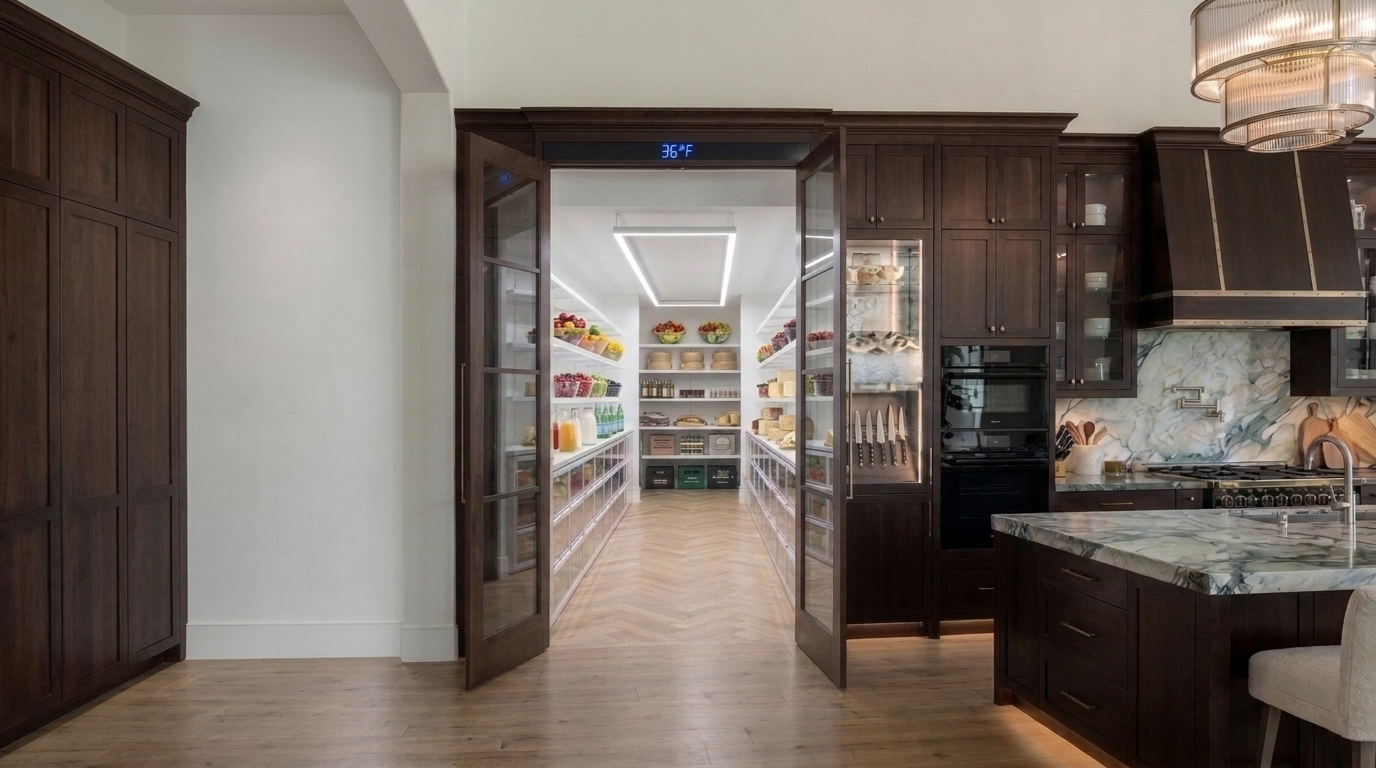
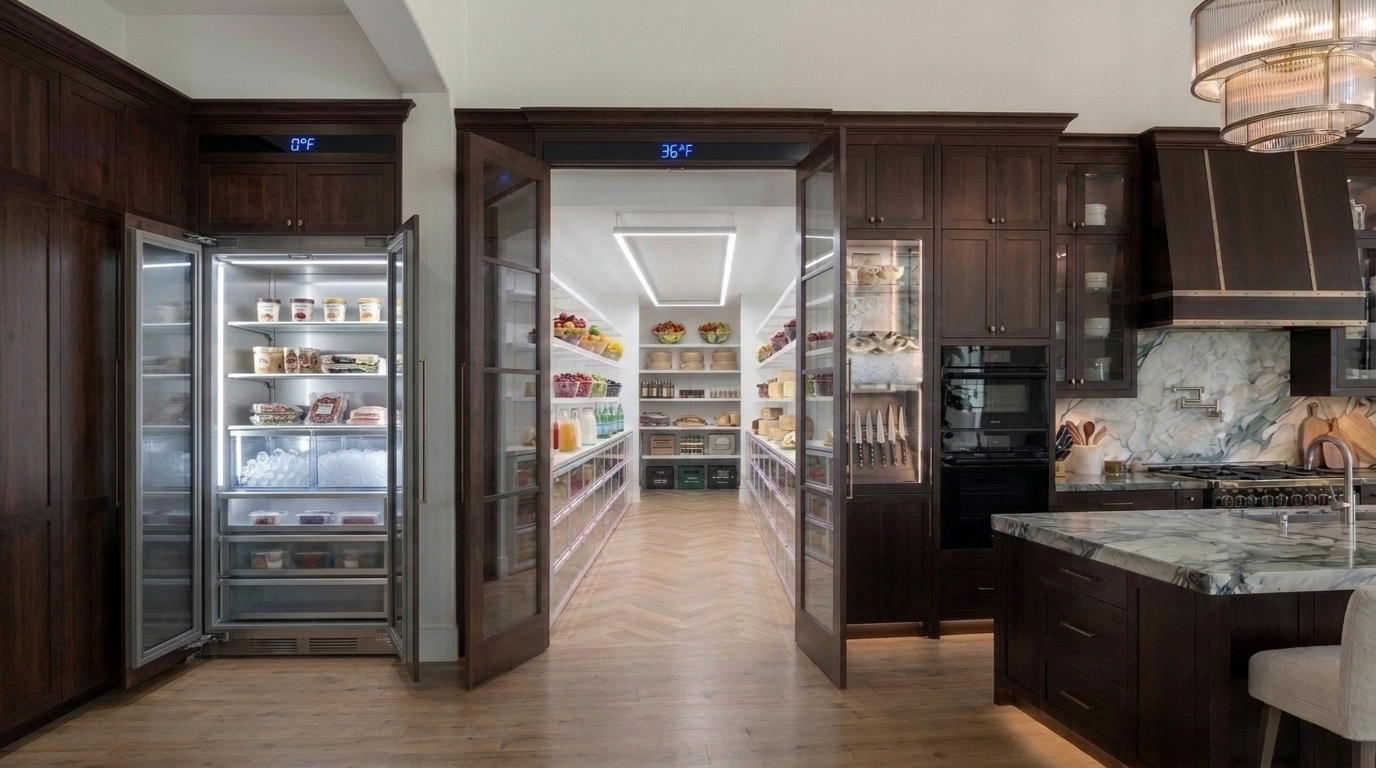
Add built-in 0F freezer unit on the left side of the pillar next to the 36F walk-in refrigerator in open and closed mirror states

Changed region(s): [[0.0, 0.125, 0.3438, 1.0]]

diff --git a/estate_interactive_lookbook_standalone.html b/estate_interactive_lookbook_standalone.html
@@ -576,15 +576,18 @@
                 <text x="328" y="227" text-anchor="middle" fill="currentColor" opacity="0.9" font-size="7.3">Glass Uppers</text>
                 <text x="328" y="238" text-anchor="middle" fill="currentColor" opacity="0.9" font-size="7.3">&amp; Slab Back</text>
 
-                <rect x="306" y="278" width="44" height="114" rx="4" fill="rgba(120, 53, 15, 0.45)" stroke="currentColor" stroke-width="1.2"/>
-                <text x="328" y="294" text-anchor="middle" fill="#fde68a" font-weight="800" font-size="7.6">36°F WALK-IN</text>
-                <text x="328" y="305" text-anchor="middle" fill="#fde68a" font-weight="800" font-size="7.6">REFRIGERATOR</text>
-                <text x="328" y="317" text-anchor="middle" fill="currentColor" opacity="0.9" font-size="7.1">• 5-Tier Door</text>
-                <text x="328" y="327" text-anchor="middle" fill="currentColor" opacity="0.9" font-size="7.1">  Bins + 3-Tier</text>
-                <text x="328" y="337" text-anchor="middle" fill="currentColor" opacity="0.9" font-size="7.1">  Clear Drawers</text>
-                <text x="328" y="350" text-anchor="middle" fill="currentColor" font-weight="700" font-size="7.3">+ 32°F OYSTER</text>
-                <text x="328" y="361" text-anchor="middle" fill="currentColor" font-weight="700" font-size="7.3">  RAW BAR &amp;</text>
-                <text x="328" y="372" text-anchor="middle" fill="currentColor" font-weight="700" font-size="7.3">  KNIFE VAULT</text>
+                <rect x="306" y="276" width="44" height="128" rx="4" fill="rgba(120, 53, 15, 0.45)" stroke="currentColor" stroke-width="1.2"/>
+                <text x="328" y="290" text-anchor="middle" fill="#fde68a" font-weight="800" font-size="7.2">32°F OYSTER BAR</text>
+                <text x="328" y="300" text-anchor="middle" fill="currentColor" font-weight="700" font-size="7.0">&amp; KNIFE VAULT</text>
+                <text x="328" y="314" text-anchor="middle" fill="#fde68a" font-weight="800" font-size="7.4">36°F WALK-IN</text>
+                <text x="328" y="324" text-anchor="middle" fill="#fde68a" font-weight="800" font-size="7.4">FRIDGE (14'D)</text>
+                <text x="328" y="335" text-anchor="middle" fill="currentColor" opacity="0.9" font-size="6.8">• Straight Back</text>
+                <text x="328" y="345" text-anchor="middle" fill="currentColor" opacity="0.9" font-size="6.8">• Mirror Doors</text>
+                <line x1="308" y1="353" x2="348" y2="353" stroke="#ffffff" stroke-width="1.4"/>
+                <text x="328" y="362" text-anchor="middle" fill="#ffffff" font-weight="800" font-size="6.4">── PILLAR ──</text>
+                <text x="328" y="374" text-anchor="middle" fill="#7dd3fc" font-weight="800" font-size="7.3">0°F BUILT-IN</text>
+                <text x="328" y="384" text-anchor="middle" fill="#7dd3fc" font-weight="800" font-size="7.3">FREEZER UNIT</text>
+                <text x="328" y="395" text-anchor="middle" fill="currentColor" opacity="0.9" font-size="6.7">• Left of Pillar</text>
 
                 <!-- 22-FOOT CALACATTA VERDE / VIOLA MARBLE SLAB ISLAND -->
                 <rect x="356" y="156" width="68" height="236" rx="5" fill="currentColor" fill-opacity="0.20" stroke="currentColor" stroke-width="1.6"/>
@@ -1828,31 +1831,31 @@
         ]
       },
       {
-        src: "static/images/01e_kitchen_walk_in_refrigerator.jpg?v=mirror_fridge_doors_v2",
+        src: "static/images/01e_kitchen_walk_in_refrigerator.jpg?v=freezer_and_fridge_v10",
         category: "level1",
-        zone: "Level 1 (Chef's Kitchen — 14' Walk-In Refrigerator OPEN Going 100% Straight Back, Lights ON)",
-        badge: "Level 1 • Custom Built-In Dark Cherry 14-Foot-Deep Walk-In Refrigerator (OPEN State — Interior Lights Automatically Come ON & Cold Room Goes 100% Straight Back • 8'6\" Doorway for 6'8\" Height)",
-        title: "Custom Built-In Dark Cherry / Mahogany 14-Foot-Deep Walk-In Refrigerator / Cold Room (OPEN State — Interior Lights Automatically Turn ON & Cold Room Extends 100% Straight Back, 90° Perpendicular to the Wall) — Sized With an 8'6\" Doorway & 9'0\" Ceiling for 6'8\" Head Clearance",
-        dims: "8' Wide × 14' Deep × 9'0\" High Walk-In Cold Room (36°F) • 8'6\" Doorway (22\"–28\" Head Clearance for 6'8\" Height) • Goes 100% Straight Back",
-        desc: "Viewed dead-on at 0° facing the flat horizontal dark cherry kitchen cabinetry wall: just like the Instagram video (https://www.instagram.com/reels/De9XZ39x8aN/), the moment you open the twin 8'6\"-tall dark cherry French doors beneath the 36°F digital readout, a magnetic door switch automatically turns ON the interior LED halo ceiling light ring and under-shelf LED strips—revealing the expansive 14-foot-deep walk-in cold room extending 100% straight back (90° perpendicular to the cabinetry wall) with 100% symmetrical left and right walls. Inside, the 9'0\" ceiling illuminates the straight herringbone porcelain tile walkway, 3 lower tiers of 24+ crystal-clear pull-out refrigerated crisper drawers, 4 upper tiers of illuminated white open shelves on both side walls, and the centered rear bulk-storage wall holding whole artisan cheese wheels, catering platters, and bulk beverage crates.",
+        zone: "Level 1 (Chef's Kitchen — Built-In 0°F Freezer on Left of Pillar + 36°F 14' Walk-In Refrigerator on Right of Pillar — BOTH OPEN, Lights ON)",
+        badge: "Level 1 • Built-In 0°F Freezer Unit (Left of Pillar) + 36°F 14-Foot-Deep Walk-In Refrigerator (Right of Pillar) — OPEN State With Interior Lights Automatically ON",
+        title: "Custom Built-In Dark Cherry / Mahogany 0°F Freezer Unit (Added on the Left Side of the Pillar) + 36°F 14-Foot-Deep Walk-In Refrigerator / Cold Room (Right of Pillar) — OPEN State Where Both Units' Interior LED Lights Automatically Turn ON",
+        dims: "0°F Built-In Freezer Column (Left of Pillar) + 8'W × 14'D × 9'0\"H Walk-In Refrigerator (36°F, Right of Pillar) • 8'6\" Doorways for 6'8\" Head Clearance",
+        desc: "Answering where the freezer goes: built flush into the dark-cherry cabinetry bay on the left side of the white architectural pillar is a matching Custom Built-In 0°F Sub-Zero / Gaggenau Deep-Freeze Unit (crowned with a glowing 0°F digital readout) directly pairing with the 36°F 14-foot-deep straight-back Walk-In Refrigerator on the right side of the pillar. When opened, magnetic door switches automatically turn ON the 4000K interior LED lighting in both units—revealing the 0°F Freezer's frosted-glass shelves (stocked with artisanal gelato pints, vacuum-sealed A5 Wagyu cuts, and frozen gourmet provisions), dual crystal-clear craft cocktail ice sphere and sonic nugget ice bins, and 3 lower brushed-stainless pull-out deep-freeze drawers on the left of the pillar, alongside the 36°F 14-foot-deep straight-back Walk-In Refrigerator, 32°F Oyster Raw Bar, Miele ovens, and 60\" range on the right.",
         highlights: [
-          "Interior Lights Automatically Turn ON Only When the Doors Open + Goes 100% Straight Back: Replicating the Instagram video (De9XZ39x8aN), opening the doors turns on the rectangular LED ceiling light ring and shelf lights to reveal symmetrical left and right shelving walls and a straight herringbone floor walkway extending 14 feet straight back.",
-          "Engineered for a 6'8\" (80\") Homeowner (8'6\" Doorway Clear Opening & 9'0\" Interior Ceiling): Eliminates any low upper cabinet header above the doors so you have 22 to 28 inches of head clearance walking straight through the doorway and all the way to the back.",
-          "14-Foot Depth for Bulk & Entertaining Cold Storage: Provides 24+ lower clear pull-out crisper drawers, 4 upper tiers of open shelves along both 14-foot side walls, and a full-width rear bulk-storage wall."
+          "Custom Built-In 0°F Freezer Unit on the Other (Left) Side of the Pillar: Positioned in the recessed cabinetry bay immediately to the left of the white architectural column, featuring twin 8'6\" dark-cherry French doors, a 0°F digital LED readout, upper frosted-glass freezer shelves, dual craft cocktail sphere & sonic nugget ice bins, and 3 heavy-duty lower pull-out freezer drawers.",
+          "36°F 14-Foot-Deep Straight-Back Walk-In Refrigerator on the Right Side of the Pillar: Extends 100% straight back (90° perpendicular to the wall) with symmetrical left and right shelving walls, 24+ clear pull-out crisper drawers, herringbone walkway, and an 8'6\" doorway / 9'0\" ceiling for 6'8\" head clearance.",
+          "Automatic Door-Activated LED Lighting in Both Units: Just like the Instagram reference video (De9XZ39x8aN), the interior LED lights in both the 0°F Freezer and the 36°F Walk-In Refrigerator automatically turn ON when the doors open."
         ]
       },
       {
-        src: "static/images/01f_kitchen_walk_in_refrigerator_closed.jpg?v=mirror_fridge_doors_v2",
+        src: "static/images/01f_kitchen_walk_in_refrigerator_closed.jpg?v=freezer_and_fridge_v10",
         category: "level1",
-        zone: "Level 1 (Chef's Kitchen — 14' Walk-In Refrigerator CLOSED Like a Mirror, Lights OFF)",
-        badge: "Level 1 • Custom Built-In Dark Cherry 14-Foot-Deep Walk-In Refrigerator (CLOSED State — Interior Lights OFF So the Doors Look Like a Sleek Two-Way Smoked-Bronze Mirror)",
-        title: "Custom Built-In Dark Cherry / Mahogany 14-Foot-Deep Walk-In Refrigerator / Cold Room (CLOSED State — Looks Like a Mirror With Interior Lights OFF, Matching the Instagram Video) — Twin 8'6\" Dark-Cherry Framed Smoked-Bronze Mirror French Doors Closed Flush Beneath the 36°F Digital Readout",
-        dims: "8' Wide × 14' Deep × 9'0\" High Walk-In Cold Room (36°F) • Two-Way Smoked-Bronze Mirror Doors (Interior Lights OFF When Closed)",
-        desc: "Exact 1:1 pixel-locked front-on view showing how the Custom Built-In Dark Cherry / Mahogany Walk-In Refrigerator looks like a mirror when CLOSED (just like https://www.instagram.com/reels/De9XZ39x8aN/): when the twin 8'6\"-tall dark cherry French doors close, the interior cold-room lights switch 100% OFF automatically, causing the dielectric two-way insulated glass panes to become sleek, opaque smoked-bronze mirrors that reflect the tiered ribbed-glass chandelier, the kitchen island with its glowing LED toe-kick, and the warm oak floor (with zero interior shelves or groceries visible until the doors open).",
+        zone: "Level 1 (Chef's Kitchen — Built-In 0°F Freezer on Left of Pillar + 36°F 14' Walk-In Refrigerator on Right of Pillar — BOTH CLOSED Like Mirrors, Lights OFF)",
+        badge: "Level 1 • Built-In 0°F Freezer Unit (Left of Pillar) + 36°F 14-Foot-Deep Walk-In Refrigerator (Right of Pillar) — CLOSED State With Two-Way Mirror Doors & Interior Lights OFF",
+        title: "Custom Built-In Dark Cherry / Mahogany 0°F Freezer Unit (Left of Pillar) + 36°F 14-Foot-Deep Walk-In Refrigerator (Right of Pillar) — CLOSED State Where Interior Lights Turn OFF So Both Sets of Doors Look Like Sleek Two-Way Smoked-Bronze Mirrors",
+        dims: "0°F Built-In Freezer (Left of Pillar) + 36°F Walk-In Cold Room (Right of Pillar) • Two-Way Smoked-Bronze Mirror Doors (Interior Lights OFF When Closed)",
+        desc: "Exact 1:1 matching view showing both the Custom Built-In 0°F Freezer Unit (left of the white pillar) and the 36°F 14-Foot-Deep Walk-In Refrigerator (right of the white pillar) with their twin 8'6\"-tall dark cherry French doors CLOSED flush: when closed, the interior lights in both the 0°F Freezer and the 36°F Walk-In Refrigerator switch 100% OFF automatically, transforming all 8 glass panes on each unit into sleek, opaque two-way smoked-bronze mirrors that reflect the tiered ribbed-glass chandelier, the 22-foot Calacatta marble island, and the warm oak floor.",
         highlights: [
-          "Two-Way Mirror Glass With Automatic Door-Activated Lighting (De9XZ39x8aN Video Style): When the doors are closed, the interior cold-room lights turn completely OFF so the 8 door panes act as high-gloss smoked-bronze mirrors reflecting the kitchen chandelier, island, and oak floor.",
-          "1:1 Matching Closed vs. Open Comparison (Compare With Slide 40): Toggle between Slide 40 (Doors Open — Interior Lights ON) and Slide 41 (Doors Closed — Interior Lights OFF, Mirror Finish) to see the exact transformation.",
-          "Unified Dark Cherry / Mahogany Millwork & Preserved 32°F Oyster Raw Bar: Framed by horizontal dark-cherry muntin bars, long vertical brushed-brass center handles, and the glowing 36°F readout directly beside the illuminated 32°F Chilled Oyster Raw Bar, Miele double ovens, 60\" range, and 22-foot Calacatta Verde/Viola island."
+          "Matching Two-Way Smoked-Bronze Mirror Doors on Both Sides of the Pillar: With the interior lights OFF when closed, both the 0°F Built-In Freezer (left of pillar) and the 36°F Walk-In Refrigerator (right of pillar) present identical, seamless dark-cherry and smoked-bronze mirror facades.",
+          "1:1 Matching Open vs. Closed Comparison (Compare Slide 40 & Slide 41): Toggle between Slide 40 (Both Open — Interior Lights ON) and Slide 41 (Both Closed — Interior Lights OFF, Mirror Finish) to see the exact transformation.",
+          "Preserves 100% of the Main Cooking Wall: Placing the 0°F Built-In Freezer on the left side of the pillar keeps the 32°F Chilled Oyster Raw Bar, Miele double ovens, 60\" black-and-brass range, and China Cabinet secret door completely untouched."
         ]
       }
     ];
@@ -2033,12 +2036,12 @@
         ]
       },
       kitchen: {
-        badge: "Level 1 • Preserved Deep Dark Cherry / Mahogany Kitchen + Custom Built-In 36°F Walk-In Refrigerator (De9XZ39x8aN Video Style), 22' Island & 32°F Oyster Bar",
-        dims: "36' × 26' • Built-In 36°F Walk-In Refrigerator (~7'×9') • 22' Calacatta Verde/Viola Island • Open Crittall Glass Wall to 24' Great Hall",
-        title: "Open-Concept Elite Chef's Kitchen (Custom Built-In Dark Cherry / Mahogany 36°F Walk-In Refrigerator From Instagram Video De9XZ39x8aN, Unified Dark Cherry Wood, 22' Island, 32°F Oyster Raw Bar & Back Pool Doors Next to China Cabinet)",
-        desc: "Preserving 100% of our existing kitchen's essence with unified deep dark cherry / mahogany stained wood across every cabinet—and now upgraded with the Custom Built-In Dark Cherry / Mahogany Walk-In Refrigerator / Cold Room (36°F) inspired by https://www.instagram.com/reels/De9XZ39x8aN/ (featuring French doors with 5 tiers of door bins opening into a ~7' × 9' U-shaped walk-in cold room with a rectangular LED ceiling light ring, herringbone floor, 3 lower tiers of 12+ clear pull-out crisper drawers across all 3 walls, and 3–4 upper tiers of illuminated U-shaped open shelving)—alongside the 32°F–34°F Oyster Raw Bar & Knife Vault column, the 60\" black-and-brass range, the 22-foot Calacatta Verde/Viola marble slab island with 6 cream stools, and the built-in China Cabinet Speakeasy door next to the tall black-steel Back Pool Doors.",
+        badge: "Level 1 • Preserved Deep Dark Cherry / Mahogany Kitchen + Built-In 0°F Freezer (Left of Pillar), 36°F 14' Walk-In Refrigerator (Right of Pillar), 22' Island & 32°F Oyster Bar",
+        dims: "36' × 26' • 0°F Built-In Freezer (Left of Pillar) + 36°F Walk-In Fridge (8'×14'×9'H, Right of Pillar) • 22' Calacatta Island",
+        title: "Open-Concept Elite Chef's Kitchen (Custom Built-In Dark Cherry 0°F Freezer Unit on the Left Side of the Pillar + 36°F 14-Foot-Deep Walk-In Refrigerator on the Right Side of the Pillar, Both With Two-Way Mirror Doors When Closed, 22' Island & 32°F Oyster Raw Bar)",
+        desc: "Preserving 100% of our existing kitchen's essence with unified deep dark cherry / mahogany stained wood across every cabinet—and now featuring a balanced refrigeration/freezing suite flanking the white architectural pillar: on the left side of the pillar is the Custom Built-In 0°F Sub-Zero / Gaggenau Freezer Unit (with frosted-glass shelves, dual craft cocktail sphere & sonic nugget ice bins, and 3 lower pull-out deep-freeze drawers), and on the right side of the pillar is the Custom Built-In 36°F 14-Foot-Deep Straight-Back Walk-In Refrigerator / Cold Room (inspired by https://www.instagram.com/reels/De9XZ39x8aN/). Both units feature two-way smoked-bronze mirror French doors that turn 100% reflective when closed (interior lights OFF) and automatically illuminate when opened—alongside the 32°F–34°F Oyster Raw Bar & Knife Vault column, the 60\" black-and-brass range, the 22-foot Calacatta Verde/Viola marble slab island, and the built-in China Cabinet Speakeasy door.",
         specs: [
-          "Custom Built-In Dark Cherry / Mahogany Walk-In Refrigerator / Cold Room (36°F — De9XZ39x8aN Video Style): Built flush into the dark cherry cabinetry with classical crown molding, 36°F digital readout, and French doors (with right-door vertical glass window and 5 tiers of door bins on both doors) opening into a U-shaped walk-in cold room with a rectangular LED ceiling light ring, herringbone floor, 3 lower tiers of 12+ crystal-clear pull-out crisper drawers, and 3–4 upper tiers of illuminated U-shaped open shelving.",
+          "Custom Built-In 0°F Freezer Unit (Left of Pillar) & 36°F 14-Foot-Deep Walk-In Refrigerator (Right of Pillar) With Two-Way Mirror Doors: Flanking the white architectural pillar are two matching 8'6\"-tall dark cherry French-door cold units crowned with 0°F (left) and 36°F (right) digital LED readouts. When closed, interior lights turn OFF so both sets of doors act as sleek smoked-bronze mirrors; when opened, interior lights automatically turn ON to reveal the 0°F Freezer (with craft cocktail sphere & sonic nugget ice bins, frosted shelves, and 3 pull-out drawers) and the 14-foot-deep straight-back 36°F Walk-In Cold Room.",
           "Extra-Long 22-Foot Clutter-Free Calacatta Verde/Viola Slab Island & Unified Dark Cherry Millwork: Monumental 22-foot single-span stone slab on a deep dark cherry / mahogany shaker drawer base with oversized brass bar pulls, warm LED toe-kick ribbon, radiant-heated overhang, 6 cream upholstered channel-split-back stools, and tiered ribbed glass & brass drum chandeliers.",
           "32°F–34°F Chilled Oyster Raw Bar Vitrine, Knife Vault, 60\" Range & China Cabinet Secret Door: Dedicated 32°F–34°F forced-air & humidity-controlled (85%–90% RH) Chilled Oyster Raw Bar Vitrine + backlit Magnetic Damascus & Oyster-Shucking Knife Vault + 60\" black-and-brass gas range & hood + built-in China Cabinet secret Speakeasy door next to the back pool doors."
         ]

diff --git a/index.html b/index.html
@@ -576,15 +576,18 @@
                 <text x="328" y="227" text-anchor="middle" fill="currentColor" opacity="0.9" font-size="7.3">Glass Uppers</text>
                 <text x="328" y="238" text-anchor="middle" fill="currentColor" opacity="0.9" font-size="7.3">&amp; Slab Back</text>
 
-                <rect x="306" y="278" width="44" height="114" rx="4" fill="rgba(120, 53, 15, 0.45)" stroke="currentColor" stroke-width="1.2"/>
-                <text x="328" y="294" text-anchor="middle" fill="#fde68a" font-weight="800" font-size="7.6">36°F WALK-IN</text>
-                <text x="328" y="305" text-anchor="middle" fill="#fde68a" font-weight="800" font-size="7.6">REFRIGERATOR</text>
-                <text x="328" y="317" text-anchor="middle" fill="currentColor" opacity="0.9" font-size="7.1">• 5-Tier Door</text>
-                <text x="328" y="327" text-anchor="middle" fill="currentColor" opacity="0.9" font-size="7.1">  Bins + 3-Tier</text>
-                <text x="328" y="337" text-anchor="middle" fill="currentColor" opacity="0.9" font-size="7.1">  Clear Drawers</text>
-                <text x="328" y="350" text-anchor="middle" fill="currentColor" font-weight="700" font-size="7.3">+ 32°F OYSTER</text>
-                <text x="328" y="361" text-anchor="middle" fill="currentColor" font-weight="700" font-size="7.3">  RAW BAR &amp;</text>
-                <text x="328" y="372" text-anchor="middle" fill="currentColor" font-weight="700" font-size="7.3">  KNIFE VAULT</text>
+                <rect x="306" y="276" width="44" height="128" rx="4" fill="rgba(120, 53, 15, 0.45)" stroke="currentColor" stroke-width="1.2"/>
+                <text x="328" y="290" text-anchor="middle" fill="#fde68a" font-weight="800" font-size="7.2">32°F OYSTER BAR</text>
+                <text x="328" y="300" text-anchor="middle" fill="currentColor" font-weight="700" font-size="7.0">&amp; KNIFE VAULT</text>
+                <text x="328" y="314" text-anchor="middle" fill="#fde68a" font-weight="800" font-size="7.4">36°F WALK-IN</text>
+                <text x="328" y="324" text-anchor="middle" fill="#fde68a" font-weight="800" font-size="7.4">FRIDGE (14'D)</text>
+                <text x="328" y="335" text-anchor="middle" fill="currentColor" opacity="0.9" font-size="6.8">• Straight Back</text>
+                <text x="328" y="345" text-anchor="middle" fill="currentColor" opacity="0.9" font-size="6.8">• Mirror Doors</text>
+                <line x1="308" y1="353" x2="348" y2="353" stroke="#ffffff" stroke-width="1.4"/>
+                <text x="328" y="362" text-anchor="middle" fill="#ffffff" font-weight="800" font-size="6.4">── PILLAR ──</text>
+                <text x="328" y="374" text-anchor="middle" fill="#7dd3fc" font-weight="800" font-size="7.3">0°F BUILT-IN</text>
+                <text x="328" y="384" text-anchor="middle" fill="#7dd3fc" font-weight="800" font-size="7.3">FREEZER UNIT</text>
+                <text x="328" y="395" text-anchor="middle" fill="currentColor" opacity="0.9" font-size="6.7">• Left of Pillar</text>
 
                 <!-- 22-FOOT CALACATTA VERDE / VIOLA MARBLE SLAB ISLAND -->
                 <rect x="356" y="156" width="68" height="236" rx="5" fill="currentColor" fill-opacity="0.20" stroke="currentColor" stroke-width="1.6"/>
@@ -1828,31 +1831,31 @@
         ]
       },
       {
-        src: "static/images/01e_kitchen_walk_in_refrigerator.jpg?v=mirror_fridge_doors_v2",
+        src: "static/images/01e_kitchen_walk_in_refrigerator.jpg?v=freezer_and_fridge_v10",
         category: "level1",
-        zone: "Level 1 (Chef's Kitchen — 14' Walk-In Refrigerator OPEN Going 100% Straight Back, Lights ON)",
-        badge: "Level 1 • Custom Built-In Dark Cherry 14-Foot-Deep Walk-In Refrigerator (OPEN State — Interior Lights Automatically Come ON & Cold Room Goes 100% Straight Back • 8'6\" Doorway for 6'8\" Height)",
-        title: "Custom Built-In Dark Cherry / Mahogany 14-Foot-Deep Walk-In Refrigerator / Cold Room (OPEN State — Interior Lights Automatically Turn ON & Cold Room Extends 100% Straight Back, 90° Perpendicular to the Wall) — Sized With an 8'6\" Doorway & 9'0\" Ceiling for 6'8\" Head Clearance",
-        dims: "8' Wide × 14' Deep × 9'0\" High Walk-In Cold Room (36°F) • 8'6\" Doorway (22\"–28\" Head Clearance for 6'8\" Height) • Goes 100% Straight Back",
-        desc: "Viewed dead-on at 0° facing the flat horizontal dark cherry kitchen cabinetry wall: just like the Instagram video (https://www.instagram.com/reels/De9XZ39x8aN/), the moment you open the twin 8'6\"-tall dark cherry French doors beneath the 36°F digital readout, a magnetic door switch automatically turns ON the interior LED halo ceiling light ring and under-shelf LED strips—revealing the expansive 14-foot-deep walk-in cold room extending 100% straight back (90° perpendicular to the cabinetry wall) with 100% symmetrical left and right walls. Inside, the 9'0\" ceiling illuminates the straight herringbone porcelain tile walkway, 3 lower tiers of 24+ crystal-clear pull-out refrigerated crisper drawers, 4 upper tiers of illuminated white open shelves on both side walls, and the centered rear bulk-storage wall holding whole artisan cheese wheels, catering platters, and bulk beverage crates.",
+        zone: "Level 1 (Chef's Kitchen — Built-In 0°F Freezer on Left of Pillar + 36°F 14' Walk-In Refrigerator on Right of Pillar — BOTH OPEN, Lights ON)",
+        badge: "Level 1 • Built-In 0°F Freezer Unit (Left of Pillar) + 36°F 14-Foot-Deep Walk-In Refrigerator (Right of Pillar) — OPEN State With Interior Lights Automatically ON",
+        title: "Custom Built-In Dark Cherry / Mahogany 0°F Freezer Unit (Added on the Left Side of the Pillar) + 36°F 14-Foot-Deep Walk-In Refrigerator / Cold Room (Right of Pillar) — OPEN State Where Both Units' Interior LED Lights Automatically Turn ON",
+        dims: "0°F Built-In Freezer Column (Left of Pillar) + 8'W × 14'D × 9'0\"H Walk-In Refrigerator (36°F, Right of Pillar) • 8'6\" Doorways for 6'8\" Head Clearance",
+        desc: "Answering where the freezer goes: built flush into the dark-cherry cabinetry bay on the left side of the white architectural pillar is a matching Custom Built-In 0°F Sub-Zero / Gaggenau Deep-Freeze Unit (crowned with a glowing 0°F digital readout) directly pairing with the 36°F 14-foot-deep straight-back Walk-In Refrigerator on the right side of the pillar. When opened, magnetic door switches automatically turn ON the 4000K interior LED lighting in both units—revealing the 0°F Freezer's frosted-glass shelves (stocked with artisanal gelato pints, vacuum-sealed A5 Wagyu cuts, and frozen gourmet provisions), dual crystal-clear craft cocktail ice sphere and sonic nugget ice bins, and 3 lower brushed-stainless pull-out deep-freeze drawers on the left of the pillar, alongside the 36°F 14-foot-deep straight-back Walk-In Refrigerator, 32°F Oyster Raw Bar, Miele ovens, and 60\" range on the right.",
         highlights: [
-          "Interior Lights Automatically Turn ON Only When the Doors Open + Goes 100% Straight Back: Replicating the Instagram video (De9XZ39x8aN), opening the doors turns on the rectangular LED ceiling light ring and shelf lights to reveal symmetrical left and right shelving walls and a straight herringbone floor walkway extending 14 feet straight back.",
-          "Engineered for a 6'8\" (80\") Homeowner (8'6\" Doorway Clear Opening & 9'0\" Interior Ceiling): Eliminates any low upper cabinet header above the doors so you have 22 to 28 inches of head clearance walking straight through the doorway and all the way to the back.",
-          "14-Foot Depth for Bulk & Entertaining Cold Storage: Provides 24+ lower clear pull-out crisper drawers, 4 upper tiers of open shelves along both 14-foot side walls, and a full-width rear bulk-storage wall."
+          "Custom Built-In 0°F Freezer Unit on the Other (Left) Side of the Pillar: Positioned in the recessed cabinetry bay immediately to the left of the white architectural column, featuring twin 8'6\" dark-cherry French doors, a 0°F digital LED readout, upper frosted-glass freezer shelves, dual craft cocktail sphere & sonic nugget ice bins, and 3 heavy-duty lower pull-out freezer drawers.",
+          "36°F 14-Foot-Deep Straight-Back Walk-In Refrigerator on the Right Side of the Pillar: Extends 100% straight back (90° perpendicular to the wall) with symmetrical left and right shelving walls, 24+ clear pull-out crisper drawers, herringbone walkway, and an 8'6\" doorway / 9'0\" ceiling for 6'8\" head clearance.",
+          "Automatic Door-Activated LED Lighting in Both Units: Just like the Instagram reference video (De9XZ39x8aN), the interior LED lights in both the 0°F Freezer and the 36°F Walk-In Refrigerator automatically turn ON when the doors open."
         ]
       },
       {
-        src: "static/images/01f_kitchen_walk_in_refrigerator_closed.jpg?v=mirror_fridge_doors_v2",
+        src: "static/images/01f_kitchen_walk_in_refrigerator_closed.jpg?v=freezer_and_fridge_v10",
         category: "level1",
-        zone: "Level 1 (Chef's Kitchen — 14' Walk-In Refrigerator CLOSED Like a Mirror, Lights OFF)",
-        badge: "Level 1 • Custom Built-In Dark Cherry 14-Foot-Deep Walk-In Refrigerator (CLOSED State — Interior Lights OFF So the Doors Look Like a Sleek Two-Way Smoked-Bronze Mirror)",
-        title: "Custom Built-In Dark Cherry / Mahogany 14-Foot-Deep Walk-In Refrigerator / Cold Room (CLOSED State — Looks Like a Mirror With Interior Lights OFF, Matching the Instagram Video) — Twin 8'6\" Dark-Cherry Framed Smoked-Bronze Mirror French Doors Closed Flush Beneath the 36°F Digital Readout",
-        dims: "8' Wide × 14' Deep × 9'0\" High Walk-In Cold Room (36°F) • Two-Way Smoked-Bronze Mirror Doors (Interior Lights OFF When Closed)",
-        desc: "Exact 1:1 pixel-locked front-on view showing how the Custom Built-In Dark Cherry / Mahogany Walk-In Refrigerator looks like a mirror when CLOSED (just like https://www.instagram.com/reels/De9XZ39x8aN/): when the twin 8'6\"-tall dark cherry French doors close, the interior cold-room lights switch 100% OFF automatically, causing the dielectric two-way insulated glass panes to become sleek, opaque smoked-bronze mirrors that reflect the tiered ribbed-glass chandelier, the kitchen island with its glowing LED toe-kick, and the warm oak floor (with zero interior shelves or groceries visible until the doors open).",
+        zone: "Level 1 (Chef's Kitchen — Built-In 0°F Freezer on Left of Pillar + 36°F 14' Walk-In Refrigerator on Right of Pillar — BOTH CLOSED Like Mirrors, Lights OFF)",
+        badge: "Level 1 • Built-In 0°F Freezer Unit (Left of Pillar) + 36°F 14-Foot-Deep Walk-In Refrigerator (Right of Pillar) — CLOSED State With Two-Way Mirror Doors & Interior Lights OFF",
+        title: "Custom Built-In Dark Cherry / Mahogany 0°F Freezer Unit (Left of Pillar) + 36°F 14-Foot-Deep Walk-In Refrigerator (Right of Pillar) — CLOSED State Where Interior Lights Turn OFF So Both Sets of Doors Look Like Sleek Two-Way Smoked-Bronze Mirrors",
+        dims: "0°F Built-In Freezer (Left of Pillar) + 36°F Walk-In Cold Room (Right of Pillar) • Two-Way Smoked-Bronze Mirror Doors (Interior Lights OFF When Closed)",
+        desc: "Exact 1:1 matching view showing both the Custom Built-In 0°F Freezer Unit (left of the white pillar) and the 36°F 14-Foot-Deep Walk-In Refrigerator (right of the white pillar) with their twin 8'6\"-tall dark cherry French doors CLOSED flush: when closed, the interior lights in both the 0°F Freezer and the 36°F Walk-In Refrigerator switch 100% OFF automatically, transforming all 8 glass panes on each unit into sleek, opaque two-way smoked-bronze mirrors that reflect the tiered ribbed-glass chandelier, the 22-foot Calacatta marble island, and the warm oak floor.",
         highlights: [
-          "Two-Way Mirror Glass With Automatic Door-Activated Lighting (De9XZ39x8aN Video Style): When the doors are closed, the interior cold-room lights turn completely OFF so the 8 door panes act as high-gloss smoked-bronze mirrors reflecting the kitchen chandelier, island, and oak floor.",
-          "1:1 Matching Closed vs. Open Comparison (Compare With Slide 40): Toggle between Slide 40 (Doors Open — Interior Lights ON) and Slide 41 (Doors Closed — Interior Lights OFF, Mirror Finish) to see the exact transformation.",
-          "Unified Dark Cherry / Mahogany Millwork & Preserved 32°F Oyster Raw Bar: Framed by horizontal dark-cherry muntin bars, long vertical brushed-brass center handles, and the glowing 36°F readout directly beside the illuminated 32°F Chilled Oyster Raw Bar, Miele double ovens, 60\" range, and 22-foot Calacatta Verde/Viola island."
+          "Matching Two-Way Smoked-Bronze Mirror Doors on Both Sides of the Pillar: With the interior lights OFF when closed, both the 0°F Built-In Freezer (left of pillar) and the 36°F Walk-In Refrigerator (right of pillar) present identical, seamless dark-cherry and smoked-bronze mirror facades.",
+          "1:1 Matching Open vs. Closed Comparison (Compare Slide 40 & Slide 41): Toggle between Slide 40 (Both Open — Interior Lights ON) and Slide 41 (Both Closed — Interior Lights OFF, Mirror Finish) to see the exact transformation.",
+          "Preserves 100% of the Main Cooking Wall: Placing the 0°F Built-In Freezer on the left side of the pillar keeps the 32°F Chilled Oyster Raw Bar, Miele double ovens, 60\" black-and-brass range, and China Cabinet secret door completely untouched."
         ]
       }
     ];
@@ -2033,12 +2036,12 @@
         ]
       },
       kitchen: {
-        badge: "Level 1 • Preserved Deep Dark Cherry / Mahogany Kitchen + Custom Built-In 36°F Walk-In Refrigerator (De9XZ39x8aN Video Style), 22' Island & 32°F Oyster Bar",
-        dims: "36' × 26' • Built-In 36°F Walk-In Refrigerator (~7'×9') • 22' Calacatta Verde/Viola Island • Open Crittall Glass Wall to 24' Great Hall",
-        title: "Open-Concept Elite Chef's Kitchen (Custom Built-In Dark Cherry / Mahogany 36°F Walk-In Refrigerator From Instagram Video De9XZ39x8aN, Unified Dark Cherry Wood, 22' Island, 32°F Oyster Raw Bar & Back Pool Doors Next to China Cabinet)",
-        desc: "Preserving 100% of our existing kitchen's essence with unified deep dark cherry / mahogany stained wood across every cabinet—and now upgraded with the Custom Built-In Dark Cherry / Mahogany Walk-In Refrigerator / Cold Room (36°F) inspired by https://www.instagram.com/reels/De9XZ39x8aN/ (featuring French doors with 5 tiers of door bins opening into a ~7' × 9' U-shaped walk-in cold room with a rectangular LED ceiling light ring, herringbone floor, 3 lower tiers of 12+ clear pull-out crisper drawers across all 3 walls, and 3–4 upper tiers of illuminated U-shaped open shelving)—alongside the 32°F–34°F Oyster Raw Bar & Knife Vault column, the 60\" black-and-brass range, the 22-foot Calacatta Verde/Viola marble slab island with 6 cream stools, and the built-in China Cabinet Speakeasy door next to the tall black-steel Back Pool Doors.",
+        badge: "Level 1 • Preserved Deep Dark Cherry / Mahogany Kitchen + Built-In 0°F Freezer (Left of Pillar), 36°F 14' Walk-In Refrigerator (Right of Pillar), 22' Island & 32°F Oyster Bar",
+        dims: "36' × 26' • 0°F Built-In Freezer (Left of Pillar) + 36°F Walk-In Fridge (8'×14'×9'H, Right of Pillar) • 22' Calacatta Island",
+        title: "Open-Concept Elite Chef's Kitchen (Custom Built-In Dark Cherry 0°F Freezer Unit on the Left Side of the Pillar + 36°F 14-Foot-Deep Walk-In Refrigerator on the Right Side of the Pillar, Both With Two-Way Mirror Doors When Closed, 22' Island & 32°F Oyster Raw Bar)",
+        desc: "Preserving 100% of our existing kitchen's essence with unified deep dark cherry / mahogany stained wood across every cabinet—and now featuring a balanced refrigeration/freezing suite flanking the white architectural pillar: on the left side of the pillar is the Custom Built-In 0°F Sub-Zero / Gaggenau Freezer Unit (with frosted-glass shelves, dual craft cocktail sphere & sonic nugget ice bins, and 3 lower pull-out deep-freeze drawers), and on the right side of the pillar is the Custom Built-In 36°F 14-Foot-Deep Straight-Back Walk-In Refrigerator / Cold Room (inspired by https://www.instagram.com/reels/De9XZ39x8aN/). Both units feature two-way smoked-bronze mirror French doors that turn 100% reflective when closed (interior lights OFF) and automatically illuminate when opened—alongside the 32°F–34°F Oyster Raw Bar & Knife Vault column, the 60\" black-and-brass range, the 22-foot Calacatta Verde/Viola marble slab island, and the built-in China Cabinet Speakeasy door.",
         specs: [
-          "Custom Built-In Dark Cherry / Mahogany Walk-In Refrigerator / Cold Room (36°F — De9XZ39x8aN Video Style): Built flush into the dark cherry cabinetry with classical crown molding, 36°F digital readout, and French doors (with right-door vertical glass window and 5 tiers of door bins on both doors) opening into a U-shaped walk-in cold room with a rectangular LED ceiling light ring, herringbone floor, 3 lower tiers of 12+ crystal-clear pull-out crisper drawers, and 3–4 upper tiers of illuminated U-shaped open shelving.",
+          "Custom Built-In 0°F Freezer Unit (Left of Pillar) & 36°F 14-Foot-Deep Walk-In Refrigerator (Right of Pillar) With Two-Way Mirror Doors: Flanking the white architectural pillar are two matching 8'6\"-tall dark cherry French-door cold units crowned with 0°F (left) and 36°F (right) digital LED readouts. When closed, interior lights turn OFF so both sets of doors act as sleek smoked-bronze mirrors; when opened, interior lights automatically turn ON to reveal the 0°F Freezer (with craft cocktail sphere & sonic nugget ice bins, frosted shelves, and 3 pull-out drawers) and the 14-foot-deep straight-back 36°F Walk-In Cold Room.",
           "Extra-Long 22-Foot Clutter-Free Calacatta Verde/Viola Slab Island & Unified Dark Cherry Millwork: Monumental 22-foot single-span stone slab on a deep dark cherry / mahogany shaker drawer base with oversized brass bar pulls, warm LED toe-kick ribbon, radiant-heated overhang, 6 cream upholstered channel-split-back stools, and tiered ribbed glass & brass drum chandeliers.",
           "32°F–34°F Chilled Oyster Raw Bar Vitrine, Knife Vault, 60\" Range & China Cabinet Secret Door: Dedicated 32°F–34°F forced-air & humidity-controlled (85%–90% RH) Chilled Oyster Raw Bar Vitrine + backlit Magnetic Damascus & Oyster-Shucking Knife Vault + 60\" black-and-brass gas range & hood + built-in China Cabinet secret Speakeasy door next to the back pool doors."
         ]

diff --git a/docs/main_home_interior_design_concept.md b/docs/main_home_interior_design_concept.md
@@ -49,11 +49,11 @@ flowchart TB
 ### C. Wide View of the Dark Cherry / Mahogany Chef's Kitchen (`36' × 26'`) With the Custom Built-In Walk-In Refrigerator's Two-Way Mirror Doors Shown CLOSED Flush on the Far Left (Interior Lights OFF), 60" Black-and-Brass Range in the Middle-Left, China Cabinet Secret Door on the Back-Left Next to the Pool Doors, 22-Foot Island in the Center & Concealed TV Credenza Visible in the Great Hall on the Far Right
 ![Wide View of the 36'x26' Open-Concept Chef's Kitchen — Showcasing the Custom Built-In Dark Cherry / Mahogany Walk-In Refrigerator Closed Flush in the Far-Left Cabinetry Wall Beneath the 36°F Readout With Its Interior Lights OFF So the Door Panes Look Like a Sleek Smoked-Bronze Mirror Reflecting the Kitchen Chandelier and Island, Followed by the 32°F Oyster Raw Bar & 60" Black-and-Brass Range in the Middle-Left, Built-In Dark Cherry Illuminated China Cabinet Secret Door at the Back-Left Next to the Pool Doors, 22-Foot Calacatta Verde/Viola Marble Island in the Center, and on the Far Right Through the Open Black-Steel Crittall Glass Partition, the Camel Leather Daybed and the Fluted European White-Oak & Roman Travertine Concealed TV Credenza Between the Daybed and the Curved Ivory Bouclé Sofa](/home/brianvinson/.gemini/jetski/brain/96883fd9-49e4-474d-86a1-0423e4655f3f/open_first_floor_v3_kitchen_closeup_back_pool_view_1792819690582.jpg)
 
-### C2. Dedicated Front-On Showcase View (OPEN STATE — Interior Lights Automatically Turn ON & Cold Room Goes 100% Straight Back): Custom Built-In Dark Cherry / Mahogany 14-Foot-Deep Walk-In Refrigerator / Cold Room (`36°F`, `8'6"` Doorway & `9'0"` Ceiling for `6'8"` Head Clearance) Positioned on the Left of the 32°F Oyster Raw Bar & 60" Range
-![Dedicated Front-On Showcase View (OPEN STATE — Interior Lights Automatically Turn ON & Cold Room Goes 100% Straight Back): Custom Built-In Dark Cherry / Mahogany 14-Foot-Deep Walk-In Refrigerator (Inspired by https://www.instagram.com/reels/De9XZ39x8aN/) — Viewed Dead-On Against the Flat Horizontal Dark Cherry Cabinetry Wall Where Opening Both 8'6"-Tall Dark Cherry French Doors Beneath the 36°F Digital Readout Automatically Triggers the Interior LED Lights to Turn ON, Revealing the 14-Foot-Deep Walk-In Cold Room Extending 100% Straight Back (90° Perpendicular to the Wall, With 100% Symmetrical Left and Right Shelving Walls, Centered Rectangular LED Ceiling Halo Light Ring, Straight Herringbone Porcelain Tile Walkway, 3 Lower Tiers of 24+ Clear Pull-Out Crisper Drawers, 4 Upper Tiers of Illuminated White Open Shelving & Centered Rear Bulk-Storage Wall), Followed on the Right by the 32°F Chilled Oyster Raw Bar, Miele Double Ovens, 60" Black-and-Brass Range & Hood, and 22-Foot Calacatta Verde/Viola Marble Island](/home/brianvinson/.gemini/jetski/brain/96883fd9-49e4-474d-86a1-0423e4655f3f/kitchen_walk_in_refrigerator.jpg)
+### C2. Dedicated Front-On Showcase View (OPEN STATE — Interior Lights Automatically Turn ON in Both Units): Custom Built-In Dark Cherry / Mahogany `0°F` Freezer Unit (Added on the Left Side of the White Pillar) + `36°F` 14-Foot-Deep Walk-In Refrigerator / Cold Room (On the Right Side of the Pillar, Going 100% Straight Back)
+![Dedicated Front-On Showcase View (OPEN STATE — Interior Lights Automatically Turn ON in Both Units): Custom Built-In Dark Cherry / Mahogany 0°F Freezer Unit on the Left Side of the White Architectural Pillar (Showing Twin 8'6"-Tall Open Dark Cherry French Doors Beneath the 0°F Digital Readout, Illuminated 4000K Stainless-Steel & Frosted-Glass Freezer Shelves Stocked With Artisanal Gelato Pints, Vacuum-Sealed A5 Wagyu Cuts & Frozen Gourmet Provisions, Dual Crystal-Clear Craft Cocktail Ice Sphere & Sonic Nugget Ice Bins, and 3 Lower Pull-Out Deep-Freeze Drawers) Paired With the 36°F 14-Foot-Deep Walk-In Refrigerator on the Right Side of the Pillar (Going 100% Straight Back With Symmetrical Shelving Walls, 24+ Clear Crisper Drawers & Herringbone Walkway), Followed by the 32°F Chilled Oyster Raw Bar, Miele Double Ovens, 60" Black-and-Brass Range & Hood, and 22-Foot Calacatta Verde/Viola Marble Island](/home/brianvinson/.gemini/jetski/brain/96883fd9-49e4-474d-86a1-0423e4655f3f/kitchen_walk_in_refrigerator.jpg)
 
-### C3. Dedicated Front-On Showcase View (CLOSED STATE — Interior Lights OFF So the Doors Look Like a Sleek Mirror, Matching the Instagram Video): Custom Built-In Dark Cherry / Mahogany 14-Foot-Deep Walk-In Refrigerator With Its Twin `8'6"` Two-Way Smoked-Bronze Mirror French Doors Closed Flush Beneath the `36°F` Digital Readout
-![Dedicated Front-On Showcase View (CLOSED STATE — Interior Lights OFF So the Doors Look Like a Mirror): Custom Built-In Dark Cherry / Mahogany 14-Foot-Deep Walk-In Refrigerator Shown With Its Twin 8'6"-Tall Dark Cherry Framed French Doors Closed Flush in the Flat Horizontal Cabinetry Wall Beneath the 36°F Digital Readout—Where the Interior Cold-Room Lights Automatically Switch OFF When Closed So the Dielectric Two-Way Glass Panes Act as Sleek Smoked-Bronze Mirrors Reflecting the Tiered Ribbed-Glass Chandelier, the Marble Island & the Warm Oak Floor](/home/brianvinson/.gemini/jetski/brain/96883fd9-49e4-474d-86a1-0423e4655f3f/kitchen_walk_in_refrigerator_closed.jpg)
+### C3. Dedicated Front-On Showcase View (CLOSED STATE — Interior Lights OFF So Both the `0°F` Freezer on the Left of the Pillar and the `36°F` Walk-In Refrigerator on the Right of the Pillar Look Like Sleek Two-Way Smoked-Bronze Mirrors): Twin `8'6"` Mirror French Doors Closed Flush on Both Sides of the White Pillar
+![Dedicated Front-On Showcase View (CLOSED STATE — Interior Lights OFF So Both Units Look Like Sleek Two-Way Mirrors): Exact 1:1 Matching View Where Both the Custom Built-In Dark Cherry 0°F Freezer Unit on the Left Side of the White Pillar and the 36°F 14-Foot-Deep Walk-In Refrigerator on the Right Side of the White Pillar Have Their Twin 8'6"-Tall Dark Cherry Framed French Doors Closed Flush Beneath Their 0°F and 36°F Digital Readouts—With Interior Lights Automatically Switched OFF So All 8 Glass Panes on Both Units Act as Opaque Two-Way Smoked-Bronze Mirrors Reflecting the Tiered Ribbed-Glass Chandelier, the Marble Island & the Warm Oak Floor](/home/brianvinson/.gemini/jetski/brain/96883fd9-49e4-474d-86a1-0423e4655f3f/kitchen_walk_in_refrigerator_closed.jpg)
 
 ### D. Dual-Sided (Bifurcated Twin-Wing) Grand Staircase Rising From the 24-Foot Great Hall & Formal Dining Area — Showing the Concealed TV Credenza Between the Camel Leather Daybed & Curved Ivory Bouclé Sofa in the Right Foreground + Expansive Full-Width Second-Floor Gallery Balcony
 ![Dual-Sided Grand Staircase Rising From the 24-Foot Open First Floor Great Hall — Showing the First-Floor Great Hall in the Foreground (12-Seat Natural Oak Formal Dining Table on the Left; Camel Leather Daybed, True-to-Scale 90" W x 48" H Fluted White-Oak & Roman Travertine Concealed TV Credenza With Raised 85" OLED Screen, and Curved Ivory Bouclé Sofa on the Checkered Rug on the Right), Rising via a Wide Central Flight & Mid-Landing to Two Sweeping Upper Flights and an Expansive Full-Width Upstairs Gallery Balcony](/home/brianvinson/.gemini/jetski/brain/96883fd9-49e4-474d-86a1-0423e4655f3f/dual_sided_grand_staircase.jpg)
@@ -90,6 +90,9 @@ flowchart TB
     - **Lower 3-Tier Perimeter Bank of 24+ Crystal-Clear Pull-Out Refrigerated Crisper Drawers** stretching along the full `14-foot` Left and Right side walls (holding color-sorted citrus, berries, greens, and vegetables);
     - **Upper 4-to-5 Tiers of Fully Stocked Illuminated White Open Shelving** running along both `14-foot` side walls (displaying fresh fruit bowls, glass milk/juice carafes, sparkling water, and meal-prep containers);
     - **Dedicated Full-Width Rear Bulk & Entertaining Cold-Storage Wall at the Back (`14'` Deep):** Multi-tier rear shelving and bulk storage crates at the far back wall for whole artisan cheese wheels, catering platters, party trays, and extra bulk provisions.
+  - **Custom Built-In Dark Cherry / Mahogany `0°F` Sub-Zero / Gaggenau Deep-Freeze Unit on the Left Side of the White Pillar (With Matching Two-Way Smoked-Bronze Mirror Doors When Closed):** Built flush into the recessed cabinetry bay immediately to the **left of the white architectural pillar** (`x = 0..290` on Map 1) to pair symmetrically with the `36°F` Walk-In Refrigerator on the right of the pillar:
+    - **Matching `8'6"` Dark Cherry French Doors & `0°F` Digital Readout:** Features twin `8'6"`-tall dark cherry / mahogany French doors with horizontal muntin bars, long vertical brushed-brass pulls, and a glowing **`0°F` digital LED temperature readout** centered in the upper crown frieze.
+    - **Two-Way Smoked-Bronze Mirror When Closed (Lights OFF) vs. Illuminated Interior When Open (Lights ON):** When closed, the interior 4000K LED lights switch **100% OFF** so all 8 door panes act as sleek, opaque **smoked-bronze mirrors** matching the closed Walk-In Refrigerator beside it. When opened, magnetic door switches turn the interior LED strips **ON**, revealing stainless-steel and frosted-glass shelves stocked with artisanal gelato pints, vacuum-sealed A5 Wagyu cuts, and frozen gourmet provisions, **dual crystal-clear craft cocktail ice sphere & sonic nugget ice bins** with brass scoops, and **3 heavy-duty lower brushed-stainless pull-out deep-freeze drawers**.
   - **Unified Dark Cherry / Mahogany Custom Millwork Throughout:** Every wooden cabinet in the kitchen—including the **Custom Built-In Walk-In Refrigerator**, the **32°F–34°F Oyster Raw Bar & Damascus Knife Vault column**, the **upper glass-front vitrines and lower drawer cabinets flanking the 60" stove**, the **22-foot island base**, and the **built-in illuminated glass-front China Cabinet Speakeasy door**—is crafted in the **exact same rich, deep dark cherry / mahogany stained wood**.
   - **Professional 60" Black-and-Brass Gas Range, Matte-Black & Brass Tapered Hood & Built-In Miele/Gaggenau Modules:** A 60" commercial-grade black-and-brass gas range sits beneath a sleek matte-black tapered range hood with brushed-brass strapping, a Calacatta Verde/Viola slab backsplash, and an articulated brass pot-filler.
   - **All 4 Elite Chef's Kitchen Upgrade Packages (Included & Rendered):**
